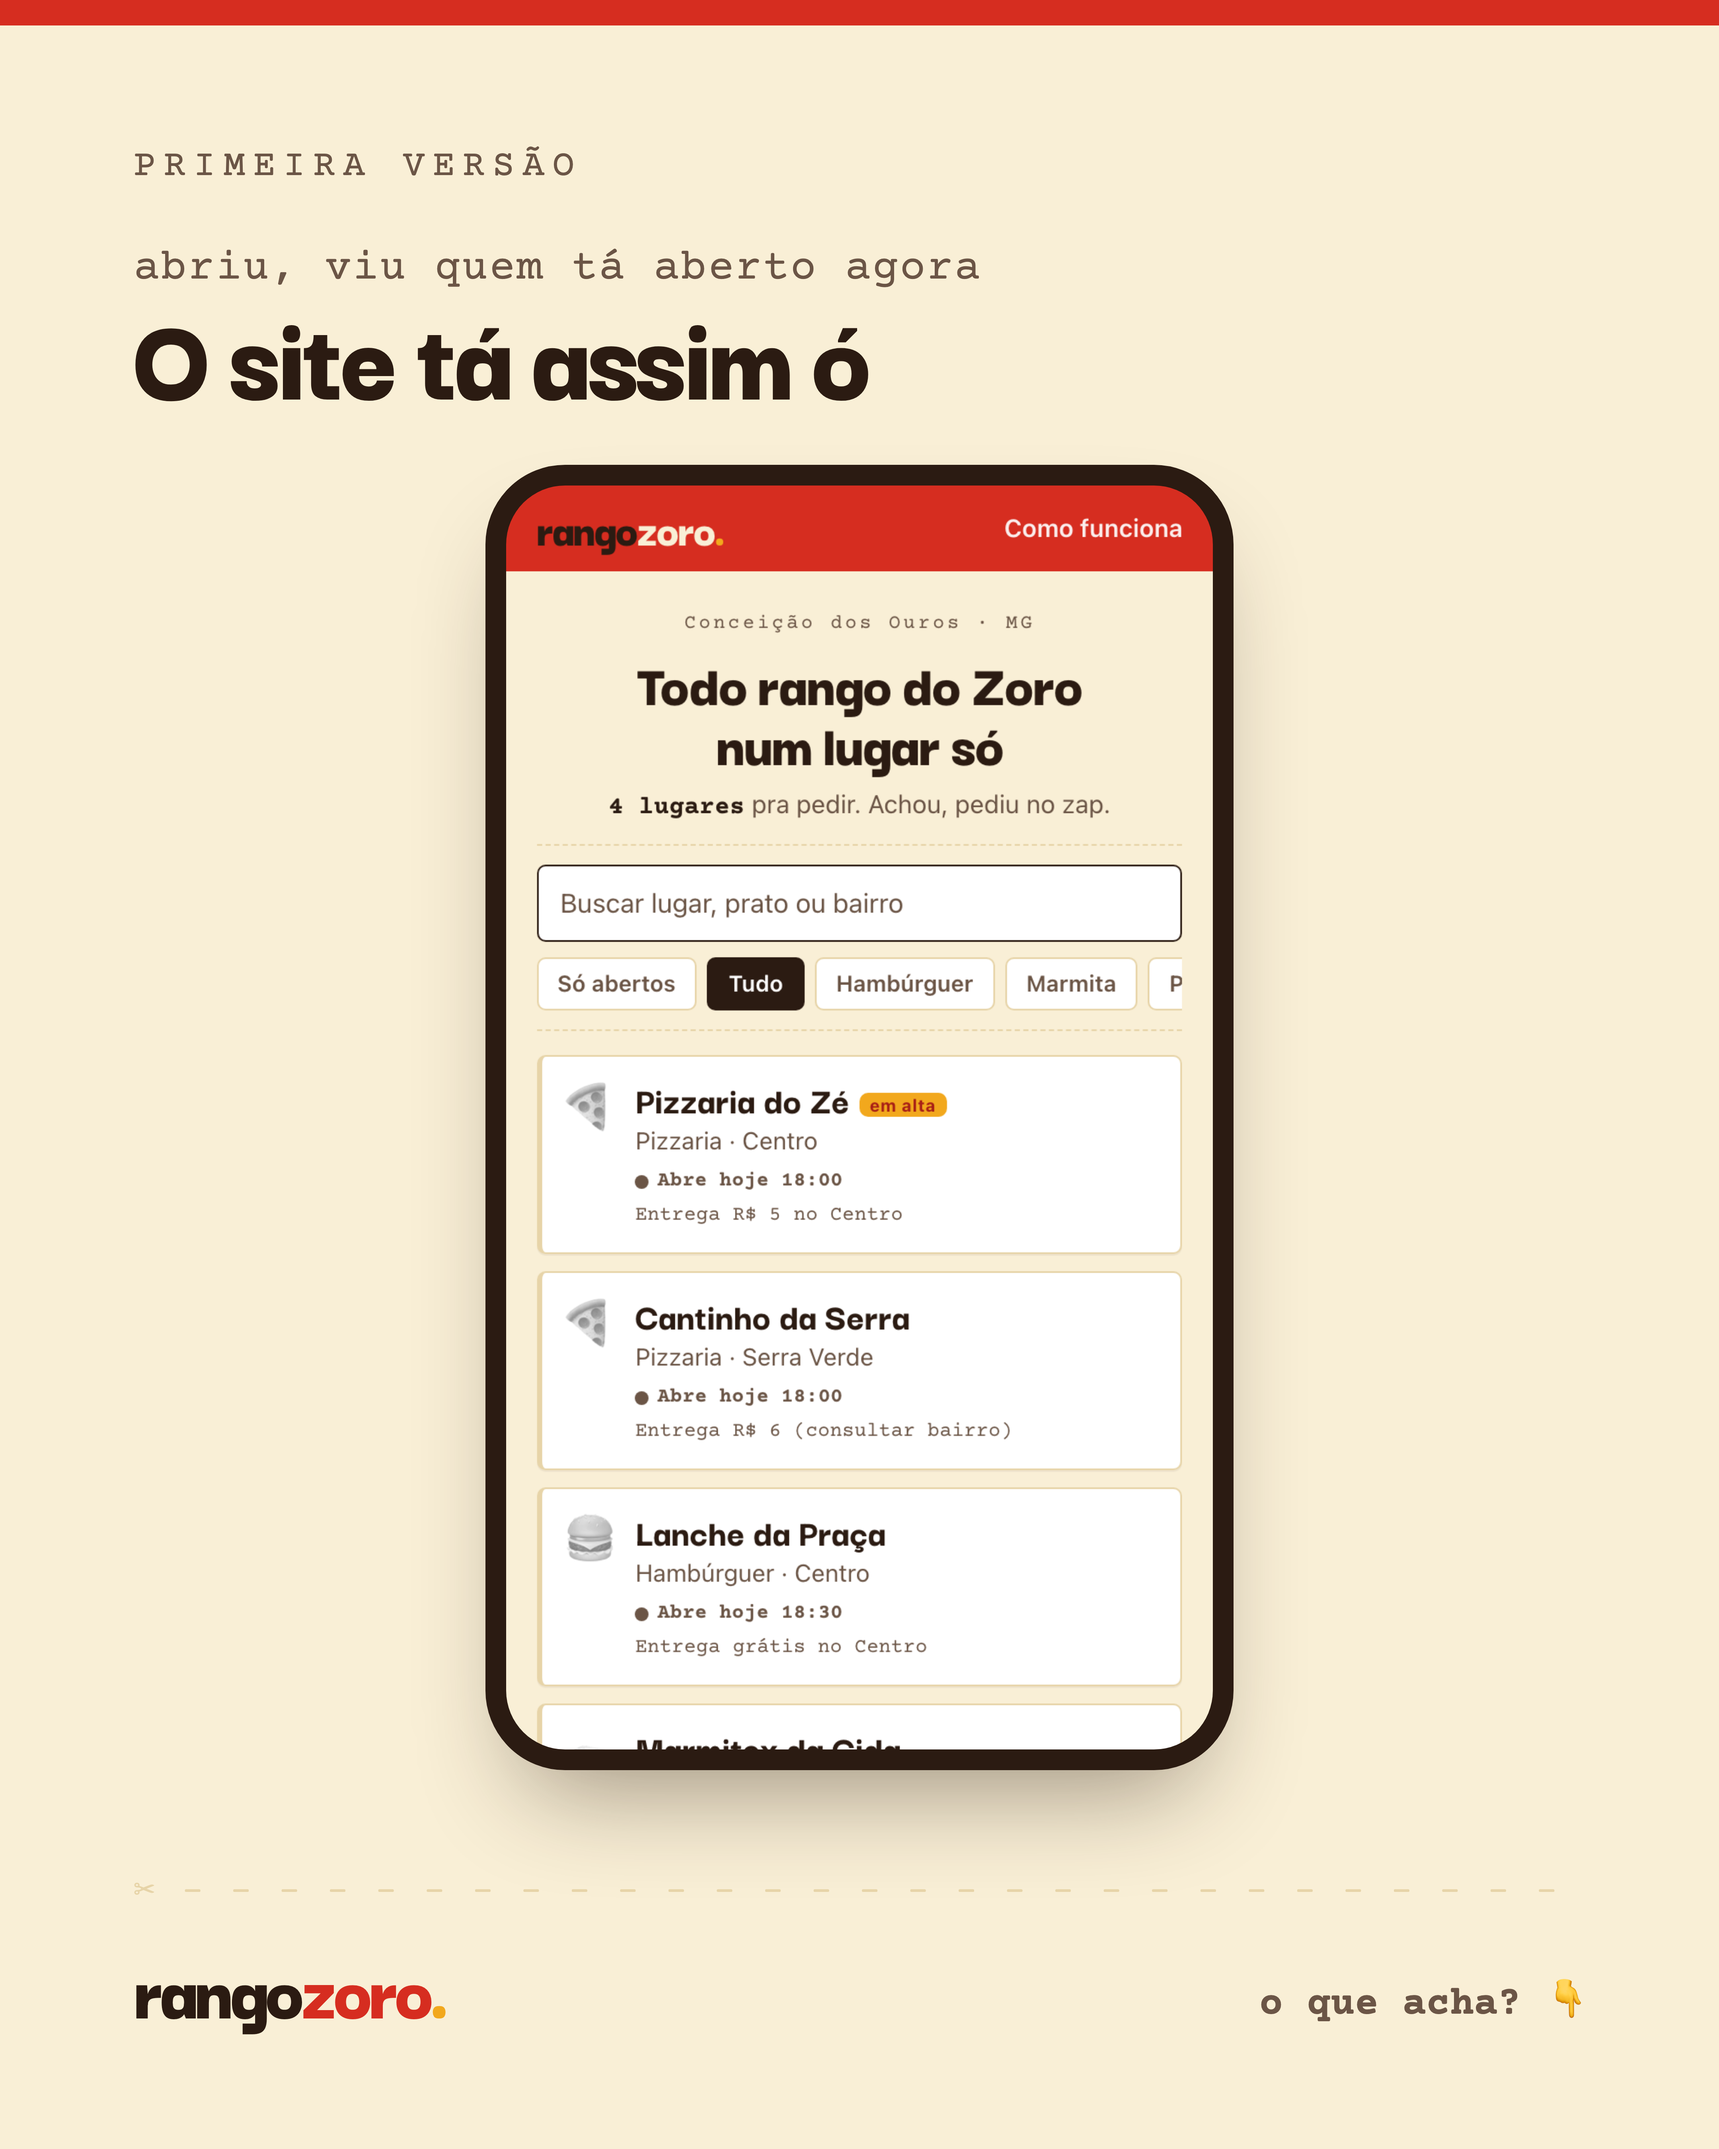
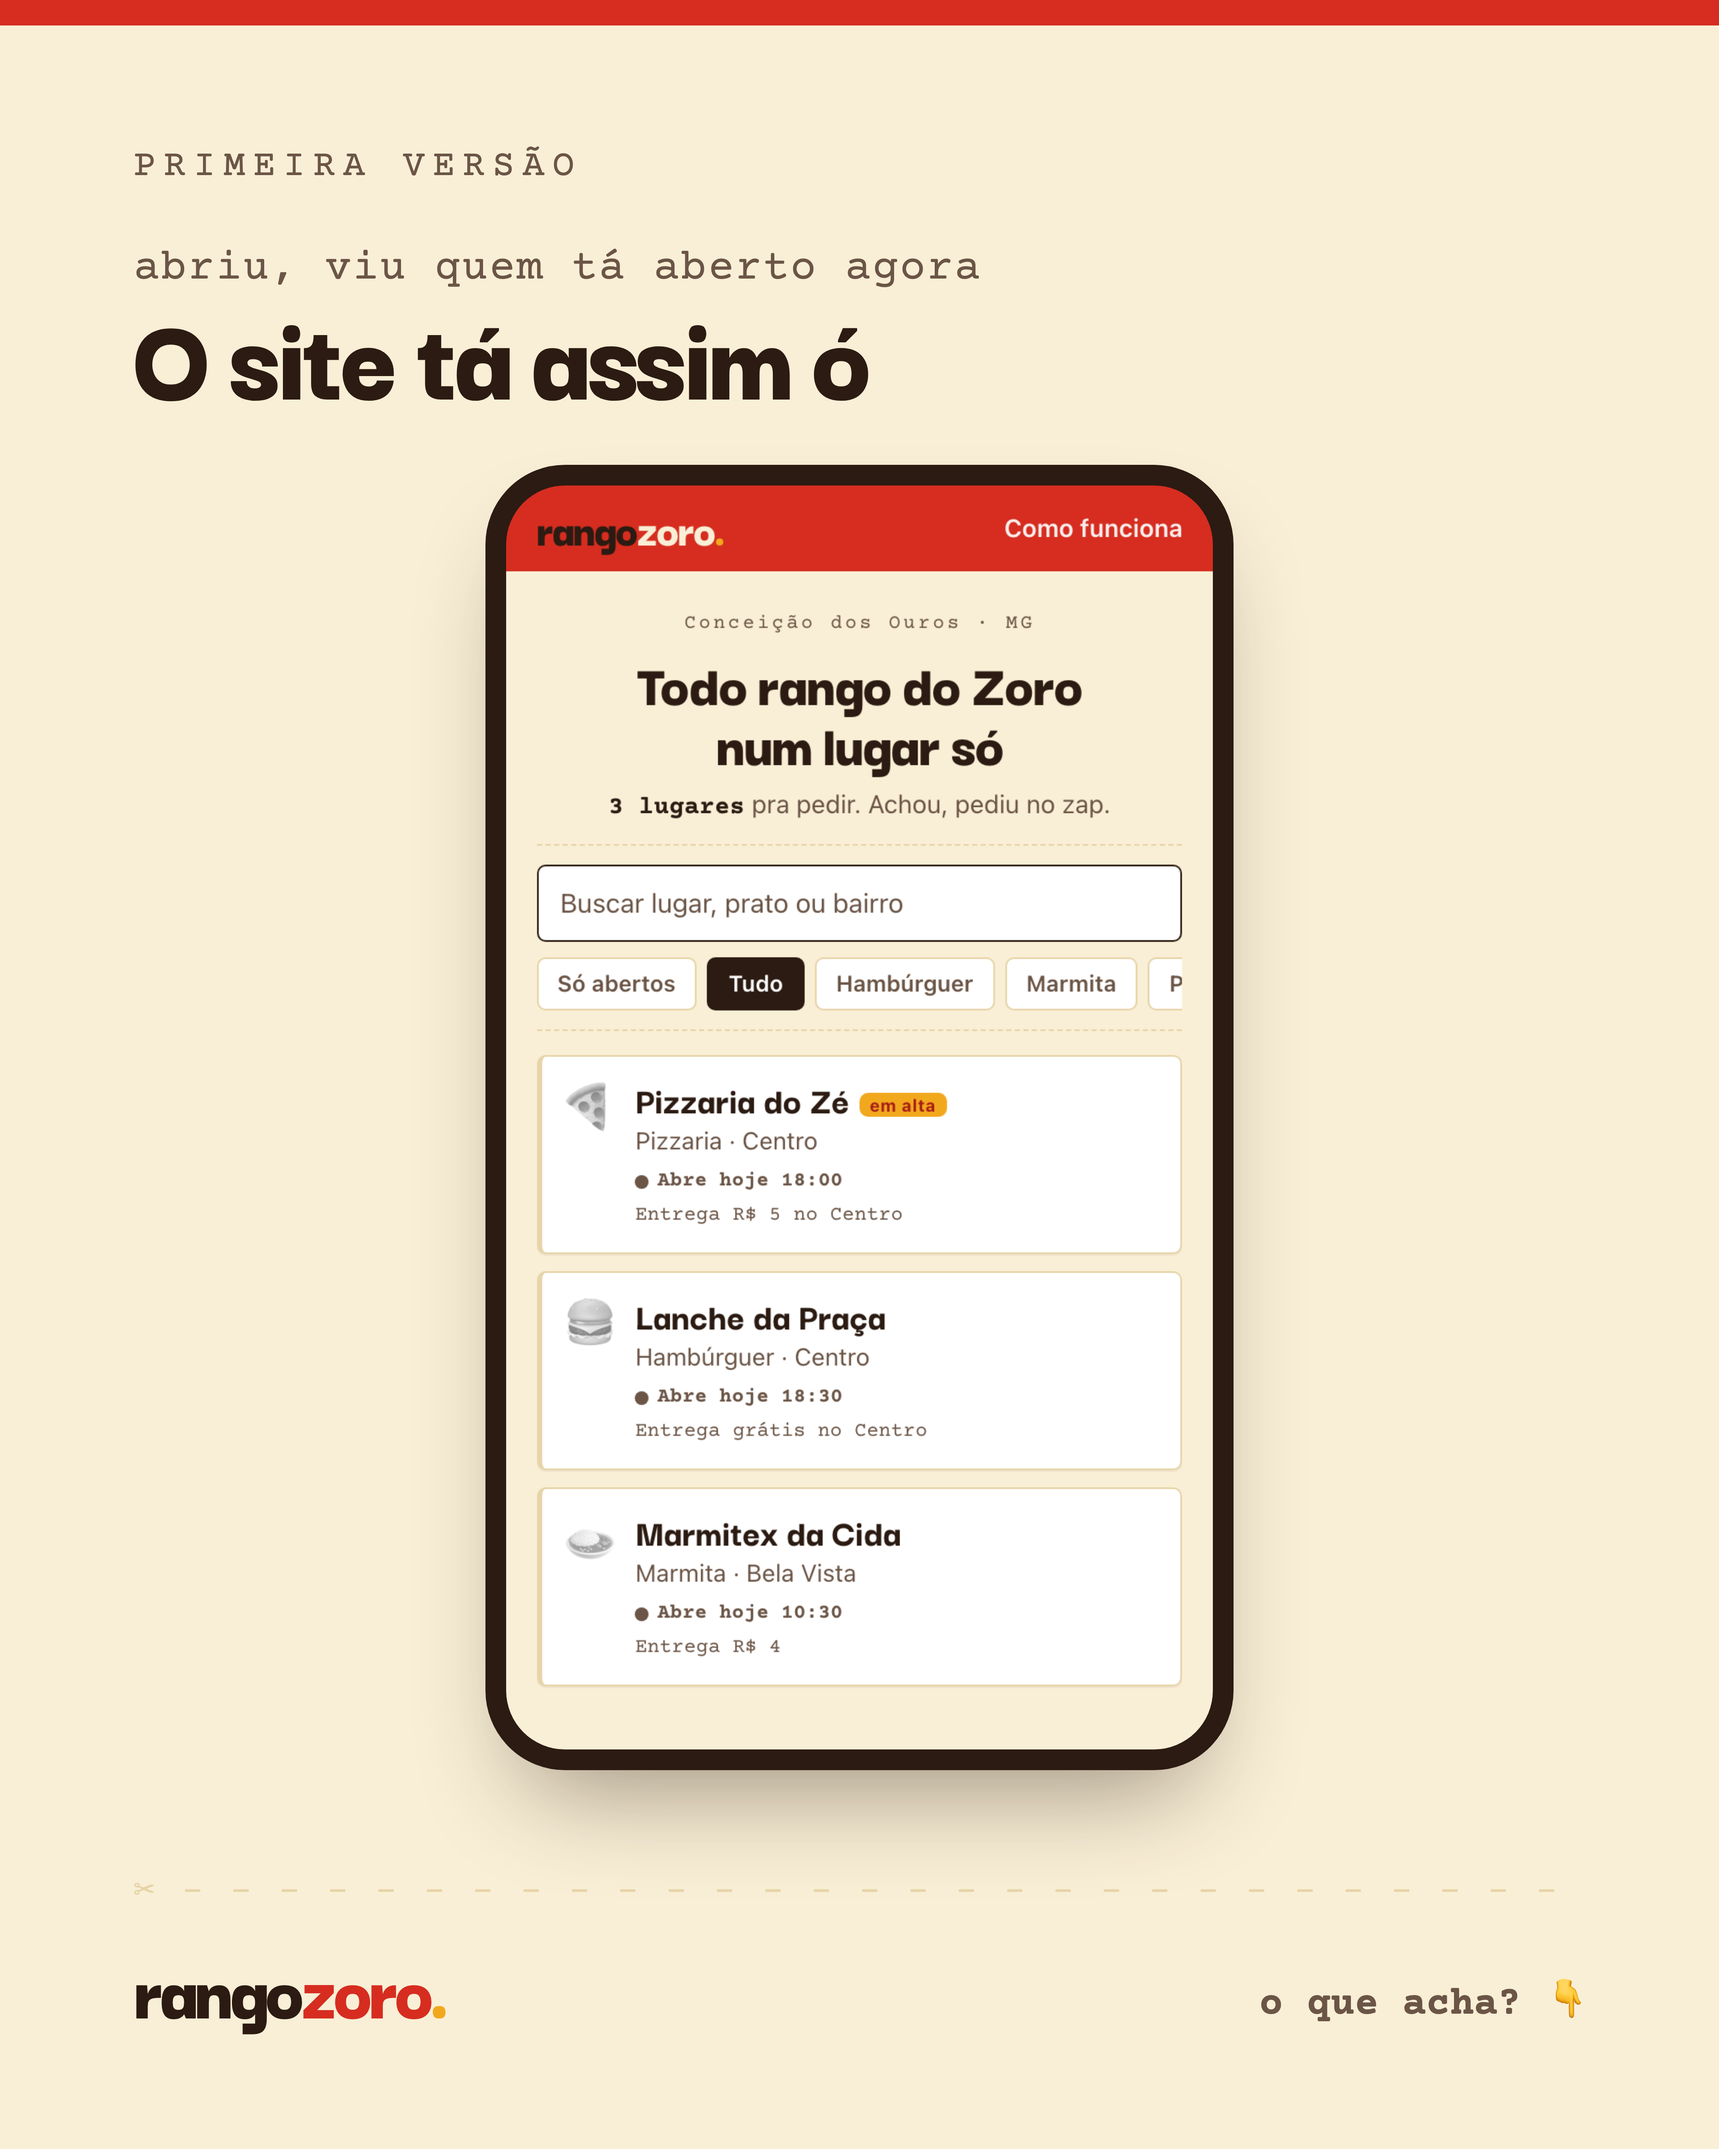
Layout no desktop e tira o restaurante real
- No computador o conteudo vira um cartao (recibo) centralizado num fundo
  escuro, em vez de uma coluna solta. Mobile continua igual.
- Remove restaurantes/cantinho-da-serra (era real); ficam so os 3 exemplos fake
- Atualiza o print do post 7

Changed region(s): [[0.3125, 0.6844, 0.6875, 0.84], [0.3125, 0.5911, 0.5312, 0.6533]]

diff --git a/src/styles/global.css b/src/styles/global.css
@@ -807,6 +807,46 @@ img {
   outline-offset: 2px;
 }
 
+/* ---------- no computador: o recibo numa mesa ---------- */
+@media (min-width: 46rem) {
+  body {
+    background: #241812;
+  }
+
+  .folha {
+    max-width: 29rem;
+    margin: 3rem auto;
+    background: var(--creme);
+    border-radius: 6px;
+    overflow: hidden;
+    box-shadow:
+      0 0 0 1px rgba(255, 255, 255, 0.04),
+      0 26px 60px -18px rgba(0, 0, 0, 0.55);
+  }
+
+  /* dentro do cartão o cabeçalho e os filtros não precisam grudar na tela */
+  .topo,
+  .controles {
+    position: static;
+  }
+
+  .controles {
+    background: transparent;
+  }
+
+  /* barra do zap acompanha a largura do cartão */
+  .zap-barra {
+    left: 50%;
+    right: auto;
+    transform: translateX(-50%);
+    width: 29rem;
+    max-width: calc(100vw - 2rem);
+    border: 1px solid var(--linha);
+    border-bottom: 0;
+    border-radius: 6px 6px 0 0;
+  }
+}
+
 @media (prefers-reduced-motion: reduce) {
   * {
     animation-duration: 0.01ms !important;

diff --git a/README.md b/README.md
@@ -91,11 +91,10 @@ troque `CONTADOR` em `src/layouts/Base.astro`). O painel fica em
 
 ## Pendências antes de divulgar
 
-- [ ] Trocar os WhatsApp `5535999990001` a `5535999990004` dos lugares de exemplo pelos
-      reais (ou apagar as 4 pastas de exemplo em `restaurantes/`).
+- [ ] Os 3 lugares em `restaurantes/` são exemplos com WhatsApp fake
+      (`5535999990001` a `5535999990003`). Trocar pelos reais ou apagar quando entrar
+      restaurante de verdade.
 - [ ] Definir o WhatsApp oficial do RangoZoro em
       [`src/pages/sobre.astro`](src/pages/sobre.astro) (`CONTATO`).
-- [ ] `restaurantes/cantinho-da-serra/` está com dados de contato e horário **inventados**
-      para teste. Trocar pelos reais.
 - [ ] `public/marca/og.svg` funciona no preview de link, mas alguns apps só aceitam PNG.
       Se quiser, exportar um `og.png` 1200x630 e apontar nele no `src/layouts/Base.astro`.
